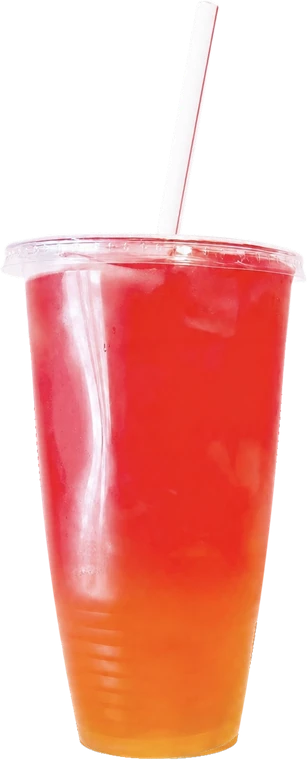
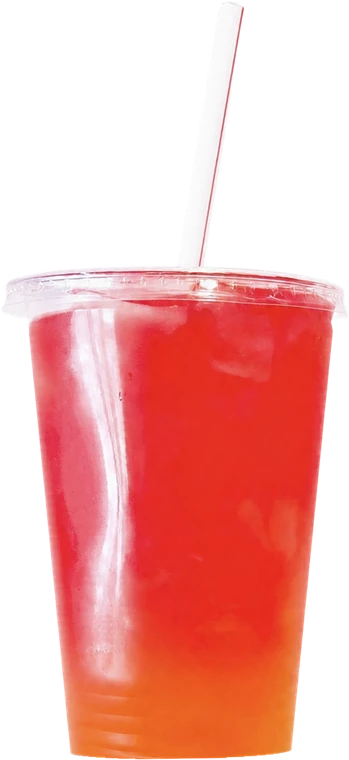
Hero cups: straight sides, flat bottoms, upright
The previous outline fix fitted the sides as curves and rounded the base, which made the
Sunset cup taper to a point. A cup is a frustum. Every cup now has one straight line per
side fitted to its real edge, ends on its last full-width row with a flat bottom (the
rounded heel is dropped, not stretched or mirrored), and is rotated until both sides
taper equally. Sprinkles is also rebuilt from an image edit, since the hand in its photo
had bitten the bottom of the cup away.

Measured at display size: every side within 0.6 px of straight, lean under 0.15 deg.

Changed region(s): [[0.0, 0.1513, 0.9967, 1.0], [0.645, 0.0, 0.7329, 0.1513]]

diff --git a/index.html b/index.html
@@ -16,8 +16,8 @@
 <link rel="preconnect" href="https://fonts.googleapis.com">
 <link rel="preconnect" href="https://fonts.gstatic.com" crossorigin>
 <link href="https://fonts.googleapis.com/css2?family=Anton&family=Bebas+Neue&family=Archivo+Black&family=Caveat:wght@600;700&family=Manrope:wght@400;500;600;700&family=Space+Mono:wght@400;700&display=swap" rel="stylesheet">
-<link rel="preload" as="image" href="img/01-cup.webp?v=202609161055">
-<link rel="stylesheet" href="css/site.css?v=202609161055">
+<link rel="preload" as="image" href="img/01-cup.webp?v=202609161117">
+<link rel="stylesheet" href="css/site.css?v=202609161117">
 </head>
 <body>
 
@@ -63,11 +63,11 @@
     </div>
 
     <div class="rig" aria-hidden="true">
-      <div class="slot is-vis" data-i="0"><picture><source media="(max-width:820px)" srcset="img/01-cup-m.webp?v=202609161055"><img class="poster" src="img/01-cup.webp?v=202609161055" alt="" decoding="async" fetchpriority="high"></picture></div>
-      <div class="slot" data-i="1"><picture><source media="(max-width:820px)" srcset="img/02-cup-m.webp?v=202609161055"><img class="poster" src="img/02-cup.webp?v=202609161055" alt="" decoding="async" loading="lazy"></picture></div>
-      <div class="slot" data-i="2"><picture><source media="(max-width:820px)" srcset="img/03-cup-m.webp?v=202609161055"><img class="poster" src="img/03-cup.webp?v=202609161055" alt="" decoding="async" loading="lazy"></picture></div>
-      <div class="slot" data-i="3"><picture><source media="(max-width:820px)" srcset="img/04-cup-m.webp?v=202609161055"><img class="poster" src="img/04-cup.webp?v=202609161055" alt="" decoding="async" loading="lazy"></picture></div>
-      <div class="slot" data-i="4"><picture><source media="(max-width:820px)" srcset="img/05-cup-m.webp?v=202609161055"><img class="poster" src="img/05-cup.webp?v=202609161055" alt="" decoding="async" loading="lazy"></picture></div>
+      <div class="slot is-vis" data-i="0"><picture><source media="(max-width:820px)" srcset="img/01-cup-m.webp?v=202609161117"><img class="poster" src="img/01-cup.webp?v=202609161117" alt="" decoding="async" fetchpriority="high"></picture></div>
+      <div class="slot" data-i="1"><picture><source media="(max-width:820px)" srcset="img/02-cup-m.webp?v=202609161117"><img class="poster" src="img/02-cup.webp?v=202609161117" alt="" decoding="async" loading="lazy"></picture></div>
+      <div class="slot" data-i="2"><picture><source media="(max-width:820px)" srcset="img/03-cup-m.webp?v=202609161117"><img class="poster" src="img/03-cup.webp?v=202609161117" alt="" decoding="async" loading="lazy"></picture></div>
+      <div class="slot" data-i="3"><picture><source media="(max-width:820px)" srcset="img/04-cup-m.webp?v=202609161117"><img class="poster" src="img/04-cup.webp?v=202609161117" alt="" decoding="async" loading="lazy"></picture></div>
+      <div class="slot" data-i="4"><picture><source media="(max-width:820px)" srcset="img/05-cup-m.webp?v=202609161117"><img class="poster" src="img/05-cup.webp?v=202609161117" alt="" decoding="async" loading="lazy"></picture></div>
     </div>
 
     <canvas class="fx fx-front" aria-hidden="true"></canvas>
@@ -291,10 +291,10 @@
   </div>
 </footer>
 
-<script src="js/vendor/gsap.min.js?v=202609161055"></script>
-<script src="js/vendor/ScrollTrigger.min.js?v=202609161055"></script>
-<script src="js/vendor/lenis.min.js?v=202609161055"></script>
-<script src="js/manifest.js?v=202609161055"></script>
-<script src="js/loadout.js?v=202609161055"></script>
+<script src="js/vendor/gsap.min.js?v=202609161117"></script>
+<script src="js/vendor/ScrollTrigger.min.js?v=202609161117"></script>
+<script src="js/vendor/lenis.min.js?v=202609161117"></script>
+<script src="js/manifest.js?v=202609161117"></script>
+<script src="js/loadout.js?v=202609161117"></script>
 </body>
 </html>
